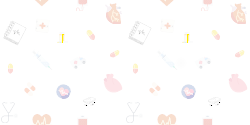
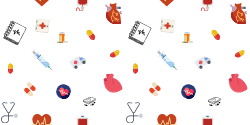
background catalogue

diff --git a/blousebrothers/static/css/project.css b/blousebrothers/static/css/project.css
@@ -1010,10 +1010,12 @@ footer .content{
 .product_pod .image_container {
     margin-top: 10px;
     padding: 0px 25px;
+    background-color: rgba(255, 255, 255, 0.82);
 }
 .product_pod .price_color {
     min-height: 21px;
 	font-weight: bold;
+    background-color: rgba(255, 255, 255, 0.82);
 	margin-bottom: -2px;
 }
 p.icono {
@@ -1362,4 +1364,64 @@ ul.quick-list li {
 
 article.product_pod.cardiologie-chir_vasculaire {
     background-image: url(/static/images/spe/cardio.png);
+}
+article.product_pod.neurologie {
+    background-image: url(/static/images/spe/neuro.png);
+}
+article.product_pod.pneumologie{
+    background-image: url(/static/images/spe/pneumo.png);
+}
+article.product_pod.hématologie{
+    background-image: url(/static/images/spe/hémato.png);
+}
+article.product_pod.psychiatrie{
+    background-image: url(/static/images/spe/psychiatrie.png);
+}
+article.product_pod.douleur{
+    background-image: url(/static/images/spe/doul.png);
+}
+article.product_pod.orl{
+    background-image: url(/static/images/spe/orl.png);
+}
+article.product_pod.urgences-réa{
+    background-image: url(/static/images/spe/urg_rea.png);
+}
+article.product_pod.oncologie{
+    background-image: url(/static/images/spe/onco.png);
+}
+article.product_pod.ophtalmologie{
+    background-image: url(/static/images/spe/opht.png);
+}
+article.product_pod.lecture_critique_d_articles{
+    background-image: url(/static/images/spe/lca.png);
+}
+article.product_pod.urologie{
+    background-image: url(/static/images/spe/uro.png);
+}
+article.product_pod.hépato-gastro-entérologie{
+    background-image: url(/static/images/spe/hepato_gastro.png);
+}
+article.product_pod.dermatologie{
+    background-image: url(/static/images/spe/dermato.png);
+}
+article.product_pod.endocrinologie{
+    background-image: url(/static/images/spe/endoc.png);
+}
+article.product_pod.néphrologie{
+    background-image: url(/static/images/spe/nephro.png);
+}
+article.product_pod.orthopédie{
+    background-image: url(/static/images/spe/ortho.png);
+}
+article.product_pod.gériatrie{
+    background-image: url(/static/images/spe/geria.png);
+}
+article.product_pod.médecine_interne{
+    background-image: url(/static/images/spe/interne.png);
+}
+article.product_pod.santé_publique{
+    background-image: url(/static/images/spe/santepub.png);
+}
+article.product_pod.gynécologie_–_obstétrique{
+    background-image: url(/static/images/spe/gyneco.png);
 }

diff --git a/blousebrothers/templates/catalogue/partials/product.html b/blousebrothers/templates/catalogue/partials/product.html
@@ -5,7 +5,7 @@
 {% load staticfiles %}
 
 {% block product %}
-<article class="product_pod{% if product.conf and product.conf.specialities %} {{ product.conf.spe_css }}{% endif %}">
+<article class="product_pod {{ product.conf.spe_css }}">
     <a href="{{ product.get_absolute_url }}" title="{% trans "Accéder au détail" %}">
         {% block product_title %}
         <h3>{{ product.get_title }}</h3>

diff --git a/blousebrothers/confs/models.py b/blousebrothers/confs/models.py
@@ -172,7 +172,8 @@ class Conference(ModelMeta, models.Model):
     @property
     def spe_css(self):
         if self.specialities.first():
-            return '_'.join(self.specialities.first().name.lower().split())
+            return '_'.join(self.specialities.first().name.lower().replace("'","_").split())
+        return "no_spe"
 
 
 def conf_directory_path(conf_image, filename):
